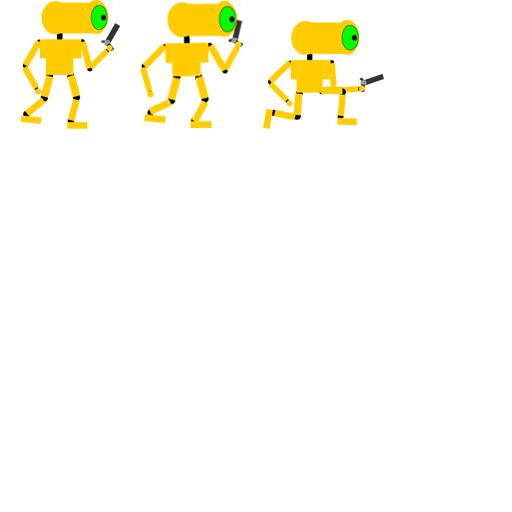
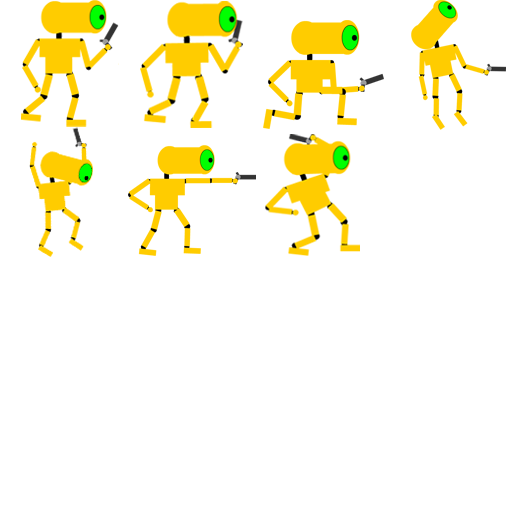
Added jump and attack

diff --git a/js/Data/player.js b/js/Data/player.js
@@ -37,25 +37,26 @@ var playerData ={
 		//The walwidth:128, height:128,
 		walk:
 		{
-			fps:1,
+			fps:2,
 			cycle:true,
 			frames:
 			[
 				{width:128, height:128, startX:0, startY:0},
 				{width:128, height:128, startX:128, startY:0},
 				{width:128, height:128, startX:256, startY:0},
-				{width:128, height:128, startX:384, startY:0},
-				{width:128, height:128, startX:512, startY:0}
+				
 			]
 		},
 		//The jump animation 
 		jump:
 		{
-			fps:15,
+			fps:18,
 			cycle:false,
 			frames:
 			[
-				{width:128, height:128, startX:640, startY:0}
+				{width:128, height:128, startX:384, startY:0},
+				{width:128, height:128, startX:384, startY:0},
+				{width:128, height:128, startX:0, startY:129}
 			]
 		},
 		//The crouch animation 
@@ -65,28 +66,21 @@ var playerData ={
 			cycle:true,
 			frames:
 			[
-				{width:128, height:128, startX:768, startY:0},
-				{width:128, height:128, startX:768, startY:0},
-				{width:128, height:128, startX:768, startY:0},
-				{width:128, height:128, startX:768, startY:0},
-				{width:128, height:128, startX:896, startY:0}
+				{width:128, height:128, startX:256, startY:0},
+				
 			]
 		},
 		//The attack animation 
 		attack:
 		{
-			fps:3,
+			fps:2,
 			cycle:false,
 			//width:300,
 			frames:
 			[
-				{width:128, height:128, startX:1024, startY:0},
-				{width:128, height:128, startX:1024, startY:0},
-				{width:128, height:128, startX:1024, startY:0},
-				{width:128, height:128, startX:1152, startY:0},
-				{width:128, height:128, startX:1152, startY:0},
-				{width:128, height:128, startX:1152, startY:0},
-				{width:128, height:128, startX:1152, startY:0}
+				{width:128, height:128, startX:256, startY:256},
+				{width:128, height:128, startX:384, startY:256},
+				
 				
 			]
 		}
